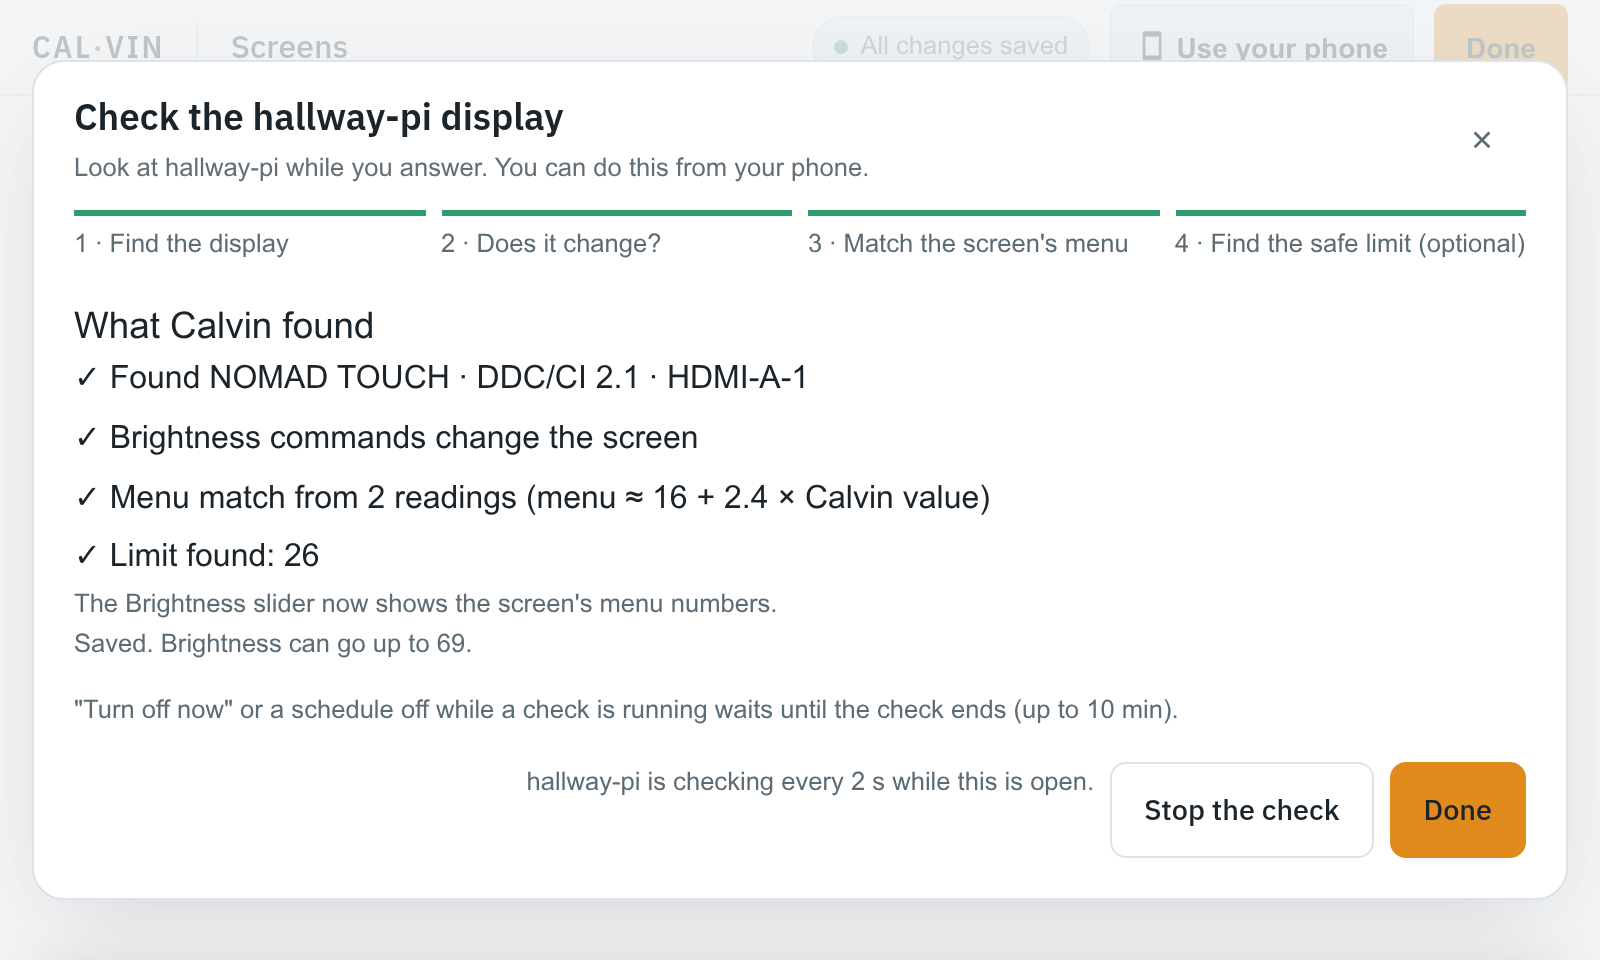
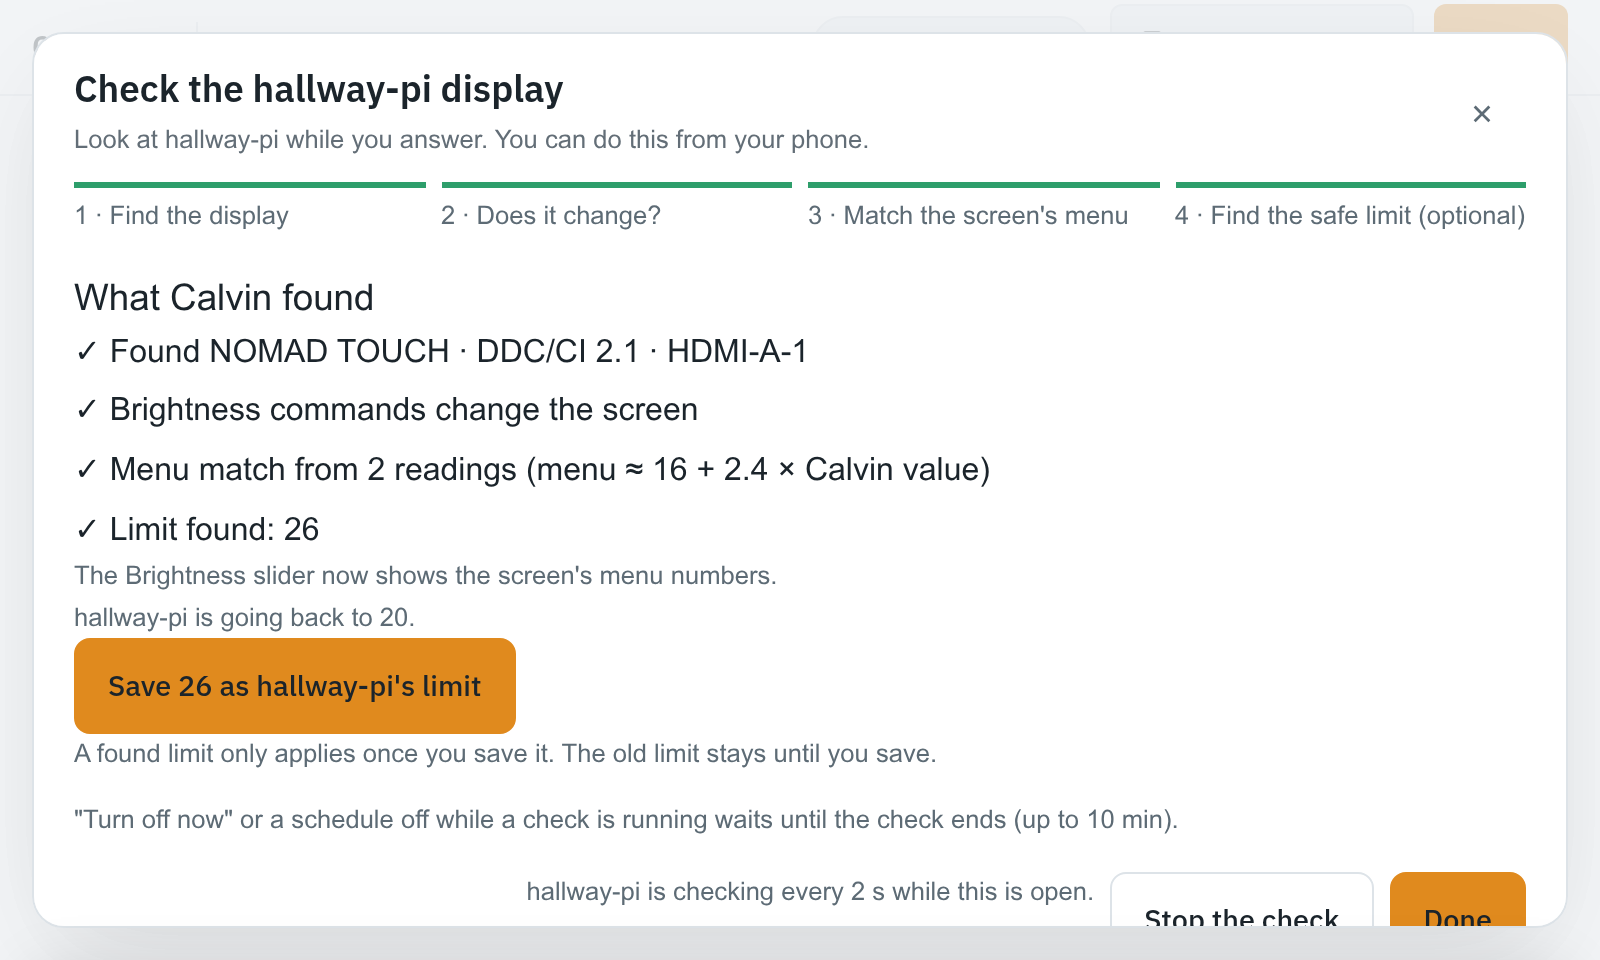
fix(frontend): a found limit is only proposed; saved only on the owner's click (calvin-29ws)

diff --git a/frontend/src/components/settings/shared/DisplayCheckDialog.vue b/frontend/src/components/settings/shared/DisplayCheckDialog.vue
@@ -90,19 +90,20 @@
             <p v-if="limitFound != null && limitSaved" class="dcheck__sub" data-test="limit-saved">
               Saved. Brightness can go up to {{ maxAfter }}.
             </p>
-            <p v-else-if="limitFound != null && limitSaveFailed" class="dcheck__sub">
-              Couldn't save the limit the usual way. Calvin applied it as a setting for now, so the
-              Brightness slider stops below it.
-            </p>
-            <Button
-              v-if="limitFound != null && limitSaveFailed && !limitSaved"
-              variant="primary"
-              data-test="limit-save"
-              :loading="savingLimit"
-              @click="saveLimit"
-            >
-              Try saving again
-            </Button>
+            <template v-else-if="limitFound != null">
+              <p class="dcheck__sub">{{ screenName }} is going back to {{ backTo }}.</p>
+              <Button
+                variant="primary"
+                data-test="limit-save"
+                :loading="savingLimit"
+                @click="saveLimit"
+              >
+                Save {{ limitFound }} as {{ screenName }}'s limit
+              </Button>
+              <p class="dcheck__sub" data-test="limit-pending-note">
+                A found limit only applies once you save it. The old limit stays until you save.
+              </p>
+            </template>
           </div>
         </template>
 
@@ -383,7 +384,6 @@ const limitRunning = ref(false);
 const limitFound = ref(null);
 const limitSaved = ref(false);
 const savingLimit = ref(false);
-const limitSaveFailed = ref(false);
 const phone = ref(false);
 const handled = new Set();
 let currentRunId = null;
@@ -574,25 +574,17 @@ function removeReading(index) {
   emit("patch", { brightnessConversion: readings.value.filter((_, i) => i !== index) });
 }
 
-// A found limit is applied as soon as the run finishes: the owner started the
-// run, and a lower cap is the safe side. If the server call fails the limit is
-// still written as a setting, so the slider never reaches past it.
+// A found limit is only a proposal: a report can be forged on the LAN, so it
+// takes effect only when the owner saves it. The old limit stays until then.
 async function saveLimit() {
   const found = limitFound.value;
   if (found == null) return;
   savingLimit.value = true;
   const saved = await check.saveLimit();
   savingLimit.value = false;
-  if (saved) {
-    limitSaved.value = true;
-    limitSaveFailed.value = false;
-    check.error.value = "";
-    emit("saved-limit", saved.brightnessLimit);
-    return;
-  }
-  limitSaveFailed.value = true;
-  check.error.value = "";
-  emit("patch", { brightnessLimit: found });
+  if (!saved) return;
+  limitSaved.value = true;
+  emit("saved-limit", saved.brightnessLimit);
 }
 
 // --- end states -------------------------------------------------------------
@@ -649,7 +641,6 @@ function onStepResult(name, result) {
       if (failed) return end("error", result.detail);
       limitFound.value = result.limit ?? null;
       view.value = "finish";
-      if (limitFound.value != null) saveLimit();
       return;
     default:
   }
@@ -707,7 +698,6 @@ async function onOpen() {
   limitRunning.value = false;
   limitFound.value = null;
   limitSaved.value = false;
-  limitSaveFailed.value = false;
   writesVerdict.value = null;
   handled.clear();
   currentRunId = null;

diff --git a/frontend/tests/unit/components/settings/DisplayCheckDialog.spec.js b/frontend/tests/unit/components/settings/DisplayCheckDialog.spec.js
@@ -390,41 +390,56 @@ describe("DisplayCheckDialog step 4: safe limit", () => {
     expect(posts("start")).toHaveLength(1);
   });
 
-  it("saves the found limit by itself when the limit step reports, and says so", async () => {
+  it("only proposes the found limit: nothing is saved until the owner clicks", async () => {
     await toStep4();
     await click(wrapper, "limit-start");
     agentStep("limit", { level: 19, limit: 26, detail: "limit found: 26" });
     await settle();
-    expect(find(wrapper, "check-finish").text()).toContain("Limit found: 26");
-    expect(posts("save-limit")).toHaveLength(1);
-    expect(find(wrapper, "limit-save").exists()).toBe(false);
-    expect(wrapper.emitted("saved-limit")[0][0]).toBe(26);
-    expect(find(wrapper, "check-finish").text()).toContain("Saved");
     await settle(6000);
-    expect(posts("save-limit")).toHaveLength(1);
+    expect(find(wrapper, "check-finish").text()).toContain("Limit found: 26");
+    expect(find(wrapper, "limit-save").text()).toBe("Save 26 as Kitchen's limit");
+    expect(find(wrapper, "limit-pending-note").text()).toContain("stays until you save");
+    expect(posts("save-limit")).toHaveLength(0);
+    expect(wrapper.emitted("saved-limit")).toBeUndefined();
+    expect(wrapper.emitted("patch")).toBeUndefined();
     // The session is still open until Done or Stop.
     expect(posts("stop")).toHaveLength(0);
   });
 
-  it("Done on the finish screen ends the session", async () => {
+  it("saves the limit once, on the click, and says so", async () => {
+    await toStep4();
+    await click(wrapper, "limit-start");
+    agentStep("limit", { level: 19, limit: 26 });
+    await settle();
+    await click(wrapper, "limit-save");
+    expect(posts("save-limit")).toHaveLength(1);
+    expect(wrapper.emitted("saved-limit")[0][0]).toBe(26);
+    expect(find(wrapper, "limit-saved").text()).toContain("Saved");
+    expect(find(wrapper, "limit-save").exists()).toBe(false);
+    expect(find(wrapper, "limit-pending-note").exists()).toBe(false);
+  });
+
+  it("Done without saving ends the session and keeps the old limit", async () => {
     await toStep4();
     await click(wrapper, "limit-start");
     agentStep("limit", { level: 19, limit: 26 });
     await settle();
     await click(wrapper, "check-done");
     expect(posts("stop")).toHaveLength(1);
+    expect(posts("save-limit")).toHaveLength(0);
     expect(wrapper.emitted("update:modelValue").at(-1)).toEqual([false]);
   });
 
-  it("still caps the brightness when saving fails, and lets the owner retry", async () => {
+  it("keeps the button and shows an error when saving fails, without changing any setting", async () => {
     backend.failSaveLimit = true;
     await toStep4();
     await click(wrapper, "limit-start");
     agentStep("limit", { level: 19, limit: 26 });
     await settle();
-    expect(wrapper.emitted("patch").at(-1)[0]).toEqual({ brightnessLimit: 26 });
-    expect(find(wrapper, "check-finish").text()).toContain("Couldn't save");
+    await click(wrapper, "limit-save");
+    expect(wrapper.text()).toContain("Couldn't save the limit");
     expect(find(wrapper, "limit-save").exists()).toBe(true);
+    expect(wrapper.emitted("patch")).toBeUndefined();
   });
 
   it("says Kitchen restarted when the agent reports an interrupted run", async () => {

diff --git a/frontend/tests/e2e/phone/brightness-display-check.spec.js b/frontend/tests/e2e/phone/brightness-display-check.spec.js
@@ -209,11 +209,15 @@ for (const [size, viewport] of SIZES) {
         "Limit found: 26",
         { timeout: 8000 }
       );
-      // A found limit is applied by itself: the owner never has to press Save.
+      // A found limit is only proposed: nothing is saved until the owner clicks.
+      await expect(body(page).locator('[data-test="limit-pending-note"]')).toBeVisible();
+      expect(api.overridesByKiosk.hallway?.brightnessLimit).toBeUndefined();
+      expect(api.displayCheckCalls).not.toContain("POST save-limit");
+      await shot(page, size, "check-finished");
+      await page.getByRole("button", { name: /^Save 26 as .* limit$/ }).click();
       await expect.poll(() => api.overridesByKiosk.hallway?.brightnessLimit).toBe(26);
       expect(api.displayCheckCalls.filter(call => call === "POST save-limit")).toHaveLength(1);
       await expect(body(page).locator('[data-test="limit-saved"]')).toBeVisible();
-      await shot(page, size, "check-finished");
       // One session the whole way: a single start, then step changes; Done ends it.
       expect(api.displayCheckCalls.filter(call => call === "POST start")).toHaveLength(1);
       expect(
